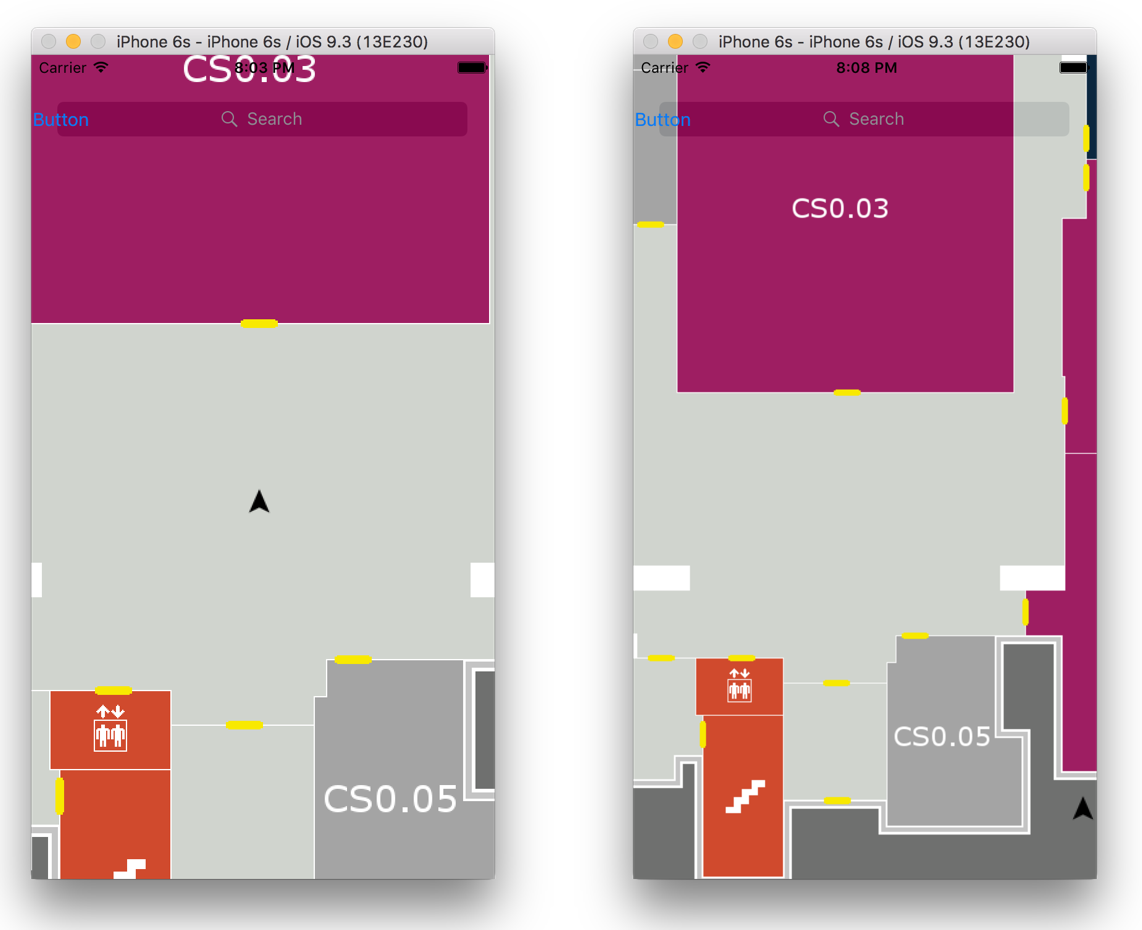
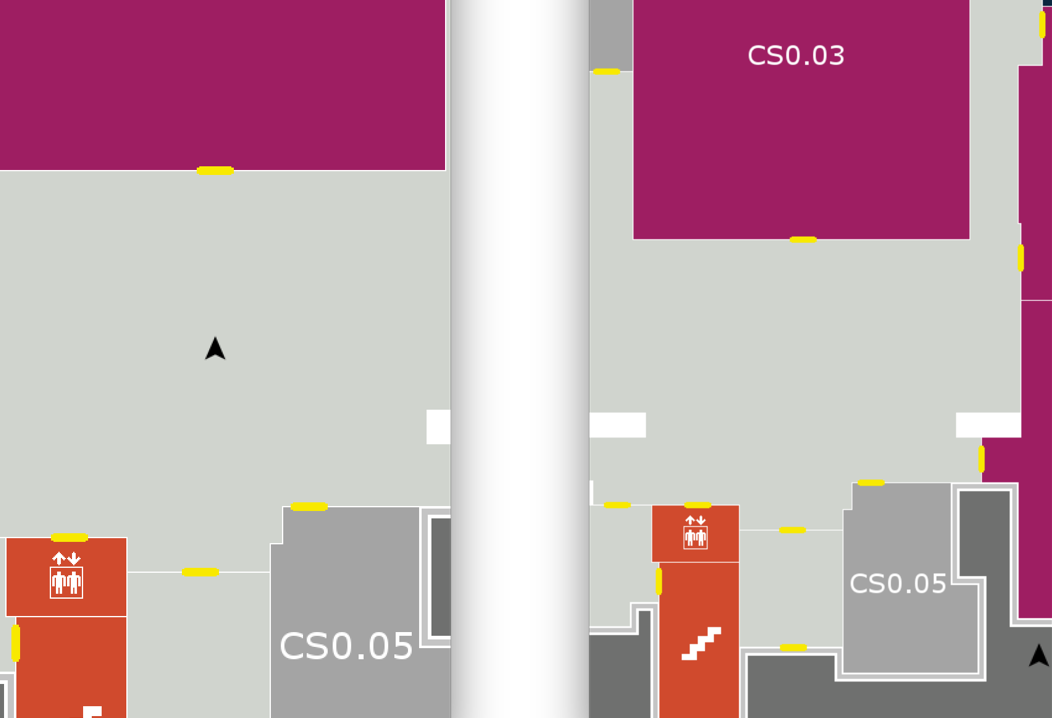
images again

diff --git a/Implementation-iOS.tex b/Implementation-iOS.tex
@@ -84,40 +84,33 @@ We decided to implement a search functionality to allow users to search for the 
 
 \subsubsection{View Controller}
 The ViewController.cs file is where the majority of the iOS specific code is kept. It is responsible for delegating all communication between the view components and the model of the application which was kept in the shared code project. It was also responsible for assigning many of the dynamic variables and properties of the view components that could not be simply created using the storyboard editor. Because of this, the view controller class is one of the longest, most feature heavy classes that is present in the application. One of the primary goals at the beginning of the project was to be able to get a simple view of a map on the screen that could be panned and zoomed by the user. We achieved this primarily with the use of a UIScrollView class. The initial scroll view component was placed using the storyboard editor, however since we wanted the image displayed to be able to be loaded dynamically to facilitate changing maps, we could not set the contents or any derived properties (such as content width and height) from the storyboard editor and instead had to elicit the use of the view controller class. An object hook was placed so that we could refer to the scroll view from inside the view controller and the following code was used to import and display the map.
-\begin{lstlisting}
-floorplanImageNoGrid = 
-	UIImage.FromBundle("Images/FinalDcsFloor1.png");
-floorplanImageView.Image = floorplanImageNoGrid
 
-floorplanScrollView.AddSubview(floorplanImageView);
-floorplanScrollView.ContentSize = floorplanImageNoGrid.Size;
-floorplanScrollView.ViewForZoomingInScrollView += 
-	(UIScrollView sv) => { return floorplanImageView; };
-\end{lstlisting}
-The first 2 lines of this code segment simply loads the proper map image from the applications resources and assigns it to a UIImageView class in order to be able to interact with other UIView classes. The 3rd line then adds this subview to the scroll view which is already set to display on the screen. The 4th and 5th lines are included in order for panning and zooming to work correctly. This simply set the contained size of the scroll view to be equal to that of the image view and the scroll view is told to zoom the image view when pinch-to-zoom gestures are registered. This code segment was included as a simple example to show how easy it is to include and manipulate visual components with ease in iOS. While this is a simple example, the main concepts of a hierarchical architecture of UIViews will remain for the remainder of this section. It is important to note that a UIView can contain more that one subview.
+The view controller then attempts to simply load the proper map image from the applications resources and assigns it to a UIImageView class in order to be able to interact with other UIView classes. It then adds this as a subview to the scroll view which is already set to display on the screen. the view controller then has to specify how panning and zooming are to work correctly. To do this, it simply sets the ContentSize property of the scroll view to be equal to that of the image view so that the scroll view knows the bounds that it needs to be able to scroll to. The scroll view is then told to zoom the ImageView of the floor plan when pinch-to-zoom gestures are registered. This example shows how easy it is to include and manipulate visual components with ease in iOS. While this is a simple example, the main concepts of the hierarchical architecture of UIViews will remain for the remainder of this section. It is also important to note that a UIView can contain more that one subview.
 
-The next step in creating a usable navigation app is to be able to draw things on the map such as the user's location and the path to their destination. Here we can utilise the structuring of UIViews by creating a container view. This is an effectively invisible view that essentially encapsulates 2 or more subviews into one container that can be acted upon and changed as a single entity. By creating a container view with the map image and a user's location arrow image as subviews, we can instruct the scroll view to act upon the container view instead of either of the subviews. This results in the scrollview being able to pan and zoom both views simultaneously to create seemingly one picture. 
+The next step in creating a usable navigation app is to be able to draw things on the map such as the user's location and the path to their destination. Here we can utilise the structuring of UIViews by creating an empty container view. This is an effectively invisible view that encapsulates 2 or more subviews into one container that can be acted upon and changed as a single entity. By creating a container view with the map image and a user's location arrow image as subviews, we can instruct the scroll view to act upon the container instead of any of its subviews. This results in the scrollview being able to pan and zoom all subviews simultaneously to create seemingly one picture. 
 
-\begin{lstlisting}
-container.AddSubview(floorplanImageView);
-container.AddSubview(userLocationArrow);
-container.SizeToFit();
-
-floorplanScrollView.ContentSize = container.Size;
-floorplanScrollView.ViewForZoomingInScrollView += 
-	(UIScrollView sv) => { return container; };
-\end{lstlisting}
-While this works nicely, we noticed that on many existing mapping applications such as Google and Apple Maps, the user location arrow did not scale with the map when zooming. Instead it stayed at a constant size and simply stayed to reflect the correct location. This was unfortunately not as simple a change as you might expect. By changing the floowplanScrollView.ViewForZoomingInScrollView property to return just the map UIImageView, we ran into the problem that the user location arrow could not distinguish between the absolute coordinated on the map and the relative coordinates to the container view. This effectively meant that as the view was scrolled in and out, the relative position of the arrow on the map would increase and the map images coordinate space was compressed. The easiest solution we could find to this problem was to manually recalculate and modify the location arrow coordinates in relation to the zoom factor of the scroll view.
+While this works nicely, we noticed that on many existing mapping applications such as Google and Apple Maps, the user location arrow did not scale with the map when zooming. Instead it stayed at a constant size and simply stayed to reflect the correct location. This was unfortunately not as simple a change as might be expected. By changing the floowplanScrollView.ViewForZoomingInScrollView property to return just the map UIImageView, we ran into the problem that the user location arrow could not distinguish between the absolute coordinates on the map and the relative coordinates to the container view. This effectively meant that as the view was scrolled in and out, the relative position of the arrow on the map would change as the map images coordinate space was compressed. The easiest solution we could find to this problem was to manually recalculate and modify the location arrow coordinates in relation to the zoom factor of the scroll view. The results of these changes can be seen in Figures \ref{IOSZoomNotWorking} and \ref{IOSZoomWorking}.
 
 
-[image of incorrect location arrow zooming]
-[image of correct location arrow zooming]
+\begin{figure}[]
+\centering
+\includegraphics[width=0.7\textwidth]{images-implementation/iOSZoomNotWorking.png}
+\label{IOSZoomNotWorking}
+\caption{Screenshots showing the issue encountered when only the map image was told to zoom. The location arrow would use coordinated within the scrollview rather than on the image view causing it to appear incorrectly when the image view was made smaller.}
+\end{figure}
+
+\begin{figure}[]
+\centering
+\includegraphics[width=0.7\textwidth]{images-implementation/iOSZoomWorking.png}
+\label{IOSZoomWorking}
+\caption{Screenshots showing the corrected location arrow location when zooming the image view.}
+\end{figure}
 
 \subsubsection{Paths}
 
 The second part that needed drawing over the main map was the actual path to the user's destination. iOS supplied a useful CGPath component that could draw a customised line between a set of points on a 2D space. However, in order to be compatible with the other UIView based components, we had to create a custom PathView.cs class that would act as a wrapper to the CGPath class. This class would be responsible for drawing the path and ensuring it remains consistent with the map image during zooming. It would also contain additional methods for encapsulating the CGPath object from the outside and for adding and getting points on the path in an abstracted way. 
 
-In order to interact with the map, we implemented a gesture recogniser on the scroll view. This allows for a long tap and hold on any part of the image and would result in a popup that would allow the user to set the point as either a start or and end point for a path. Setting a start location would move the user to that particular point, while setting an end location would attempt to draw a path from the user to the destination. Creating this was fairly simple and simply required the use of the UIAlertController class which allowed us to create iOS style alerts with customisable options. An image for a preliminary options sheet is shown in image \ref{IOSAlertSheet} and the code is shown below.
+In order to interact with the map, we implemented a gesture recogniser on the scroll view. This allows for a long tap and hold on any part of the image and would result in a popup that would allow the user to set the point as either a start or and end point for a path. Setting a start location would move the user to that particular point, while setting an end location would attempt to draw a path from the user to the destination. Creating this was fairly simple and simply required the use of the UIAlertController class which allowed us to create iOS style alerts with customisable options. An image for a preliminary options sheet is shown in Figure \ref{IOSAlertSheet}.
 
 \begin{figure}[]
 \centering
@@ -126,61 +119,8 @@ In order to interact with the map, we implemented a gesture recogniser on the sc
 \caption{Screenshot showing the iOS alert sheet that would show when long pressing an area on the map.}
 \end{figure}
 
-\begin{lstlisting}
-// Create a new Alert Controller
-UIAlertController actionSheetAlert = UIAlertController.Create(
-	"Options", 
-	null, 
-	UIAlertControllerStyle.Alert
-);
-
-// Add Actions
-actionSheetAlert.AddAction(
-	UIAlertAction.Create("Cancel",
-	UIAlertActionStyle.Cancel, 
-	null));
-actionSheetAlert.AddAction(
-	UIAlertAction.Create("Set Start Point",
-	UIAlertActionStyle.Default, 
-	(action) => setStartPoint(tapX, tapY)));
-actionSheetAlert.AddAction(
-	UIAlertAction.Create("Set End Point",
-	UIAlertActionStyle.Default, 
-	(action) => setEndPoint(tapX, tapY)));
-\end{lstlisting}
-
 \subsubsection{Getting Sensor Values}
-One of the crucial aspects required for the step detector and wall collision classes to work was various device sensor readings. These included heading information and accelerometer and gyroscope values. Since these classes were designed and written as shared code to be utilised by both iOS and Android, they could not directly access these sensor readings themselves and instead had to implement methods for receiving these from the correct native projects. As such, sensor readings were the responsibility of the native projects to collect and manipulate into the correct format required by the step detector and wall collision classes. Retrieving sensor readings in iOS is fairly simple and many similar sensor readings are nicely encapsulated into easy to understand objects. Additionally, the Xamarin iOS framework makes use of the functional paradigm support of C\# in order to simplify the process of receiving updated sensor values. C\# is able to handle functions as first order variables, and as such, they can be easily passed into functions as arguments and can be dynamically run by variable name. This allows us to pass our handler functions into the sensor managers, that is, the code that will be run whenever a new set of updated values is provided. This allows easy encapsulation and purity of the sensor managers and a relatively simple solution to retrieving updated values, an issue that could potentially require a much more complex solution with other languages. To demonstrate this, we will show how accelerometer readings, which will be crucial for step detection, are taken on an iOS device using Xamarin and C\#. The method definition for retrieving accelerometer values is 
-\begin{lstlisting}
-CMMotionManager.StartAccelerometerUpdates(
-	NSOperationQueue queue, 
-	CMAccelerometerHandler handler
-);
-\end{lstlisting}
-The important argument here is the CMAccelerometerHandler handler. This is where the method that is called whenever the accelerometer values are updated. The CMAccelerometerHandler referenced here is a delegate type. A delegate is a special keyword used by C\# to specify a method definition without actually specifying any actual body to the method. The declaration for CMAccelerometerHandler is shown below.
-\begin{lstlisting}
-public delegate void CMAccelerometerHandler (
-	CMAccelerometerData data, 
-	NSError error
-);
-\end{lstlisting}
-What this declaration does is define a type of method CMAccelerometerHandler that takes those two particular arguments. Now any event that is created with the type CMAccelerometerHandler will require its subscriber methods to also implement this same declaration. This ensures that the correct arguments can be passed into the subscriber methods when the event is called. Shown below is the implementation used in our application for retrieving accelerometer values and passing them into the step detector class. In this example, we make use of an anonymous lambda function instead of declaring a full named method. As such, this lambda function has the same declaration as the CMAccelerometerHandler delegate.
-\begin{lstlisting}
-motionManager.StartAccelerometerUpdates(
-	NSOperationQueue.CurrentQueue,
-	(data, error) =>
-	{
-		accelX = data.Acceleration.X*9.8;
-		accelY = data.Acceleration.Y*9.8;
-		accelZ = Math.Sqrt(Math.Pow(accelX, 2) + 
-			  Math.Pow(accelY, 2) + 
-			  Math.Pow(data.Acceleration.Z*9.8, 2));
-
-		col.PassSensorReadings(
-			CollisionSensorType.Accelometer, 
-			accelX, accelY, accelZ);
-	});
-\end{lstlisting}
+One of the crucial aspects required for the step detector and wall collision classes to work was various device sensor readings. These included heading information and accelerometer and gyroscope values. Since these classes were designed and written as shared code to be utilised by both iOS and Android, they could not directly access these sensor readings themselves and instead had to implement methods for receiving these from the correct native projects. As such, sensor readings were the responsibility of the native projects to collect and manipulate into the correct format required by the step detector and wall collision classes. Retrieving sensor readings in iOS is fairly simple and many similar sensor readings are nicely encapsulated into easy to understand objects. Additionally, the Xamarin iOS framework makes use of the functional paradigm support of C\# in order to simplify the process of receiving updated sensor values. C\# is able to handle functions as first order variables, and as such, they can be easily passed into functions as arguments and can be dynamically run by variable name. This allows us to pass our handler functions into the sensor managers, that is, the code that will be run whenever a new set of updated values is provided. This allows easy encapsulation and purity of the sensor managers and a relatively simple solution to retrieving updated values, an issue that could potentially require a much more complex solution with other languages. To demonstrate this, we will show how accelerometer readings, which will be crucial for step detection, are taken on an iOS device using Xamarin and C\#. The method definition for retrieving accelerometer values, \texttt{CMMotionManager.StartAccelerometerUpdates}, takes an argument of \texttt{CMAccelerometerHandler}. The CMAccelerometerHandler referenced here is a C\# delegate type. A delegate is a special keyword used by C\# to specify a method definition without actually specifying any actual body to the method. The declaration for the \texttt{CMAccelerometerHandler} delegate type states that any function created using this delegate must take a argument of type \texttt{CMAccelerometerData}. Now any event that is created with the type \texttt{CMAccelerometerHandler} will require its subscriber methods to implement the \texttt{CMAccelerometerHandler} delegate type and take \texttt{CMAccelerometerData} as an argument. This ensures that the argument can be passed into the subscriber methods when the event is called and the subscriber methods can then access the latest updated accelerometer values. 
 
 The other sensor reading that was crucial for accurate plotting and to understanding where the user was on the map, was the device’s heading. There are a few methods that can be used to generate this information on iOS and several ways to represent it. Gyroscope readings from CMMotionManager, (same manager as accelerometer values,) we can obtain the instantaneous rotational velocity in any one of the 3 axis which can be turned into a relative heading, that is, the device rotated 15\textdegree counterclockwise. This however required knowledge of the initial heading in order to be able to properly estimate the heading of the device in relation to a map. Alternatively, through the use of CLLocationManager, we can obtain an estimation of the absolute heading of the device, (North, South, East, West). This measure is predominantly taken by the magnetometer sensor but may potentially be aided by other sensors such as the gyroscope. CLLocationManager utilises events in C\# in order to provide updated values for the heading. An event in C\# follows the pub-sub design pattern where various subscriber classes can subscribe a particular method they contain onto an event defined in another class, or in itself potentially. When the event’s owner class calls the event, each of the subscribed methods will be called, with any parameters to the event being passed into them. The heading values were provided to us in degrees with 0 representing North. This was quickly converted to radians to aid with calculations further down the line, and the new updated value was fed into the wall collision class.
 
